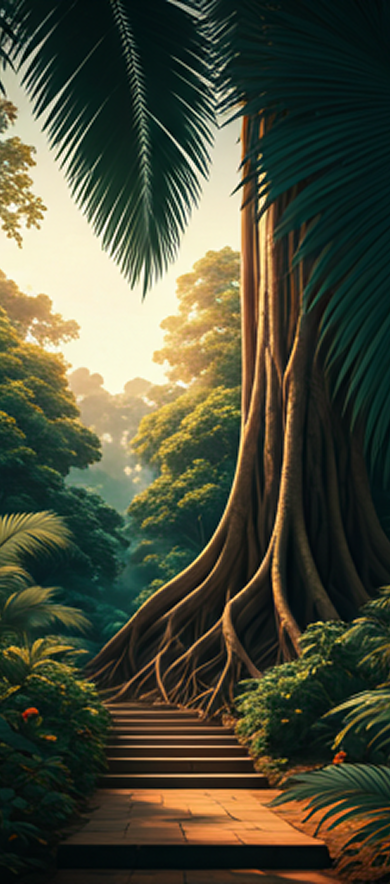
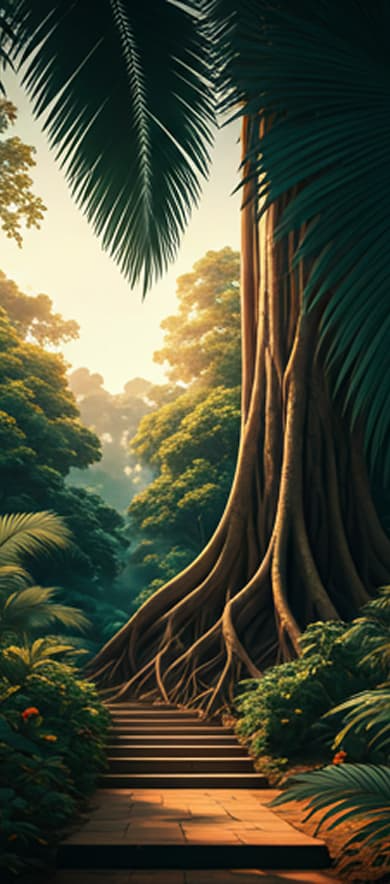
Minor changes

diff --git a/src/components/ScrollToTop.jsx b/src/components/ScrollToTop.jsx
@@ -1,0 +1,14 @@
+import { useEffect } from 'react'
+import { useLocation } from 'react-router-dom'
+
+function ScrollToTop() {
+  const { pathname } = useLocation()
+
+  useEffect(() => {
+    window.scrollTo({ top: 0, behavior: 'instant' })
+  }, [pathname])
+
+  return null
+}
+
+export default ScrollToTop

diff --git a/src/App.jsx b/src/App.jsx
@@ -11,6 +11,7 @@ import SplashPage from './pages/SplashPage.jsx'
 import PermissionPage from './pages/PermissionPage.jsx'
 import HelpPage from './pages/HelpPage.jsx'
 import PrivacyPage from './pages/PrivacyPage.jsx'
+import ScrollToTop from './components/ScrollToTop.jsx'
 
 export default function App() {
   return (
@@ -18,6 +19,7 @@ export default function App() {
       <FavoritesProvider>
         <LocationProvider>
           <BrowserRouter>
+            <ScrollToTop />
             <Routes>
               <Route path="/splash" element={<SplashPage />} />
               <Route path="/permission" element={<PermissionPage />} />